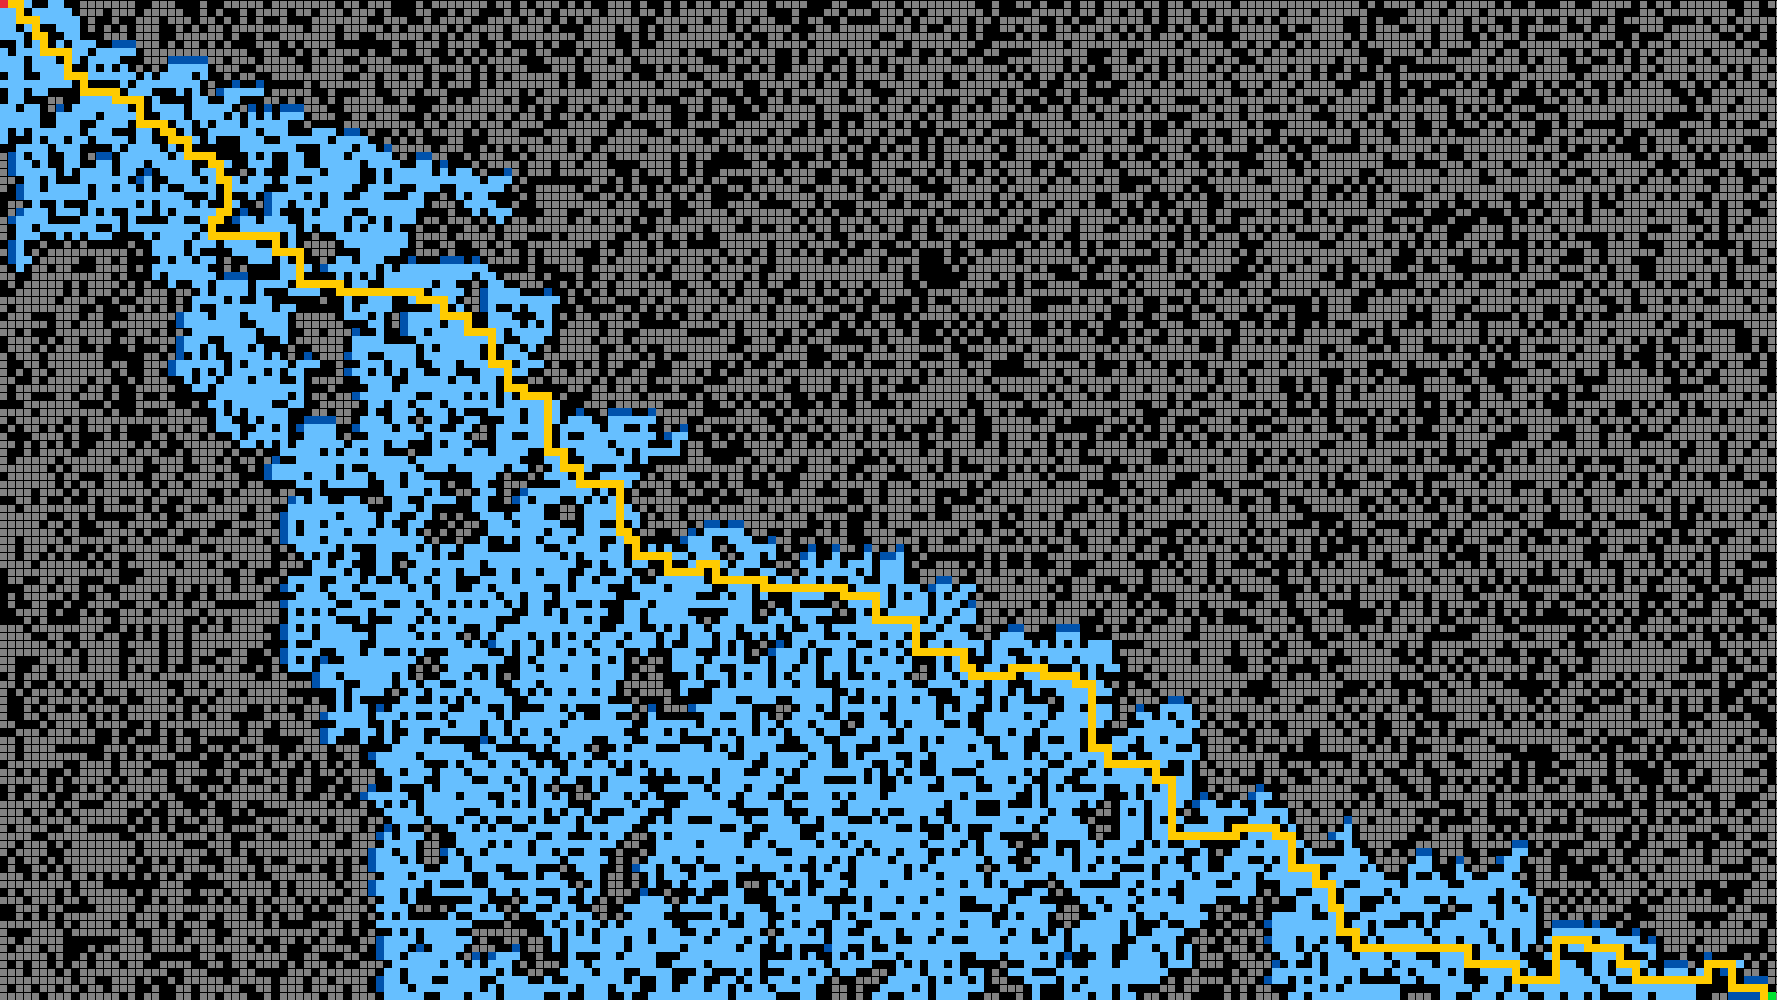
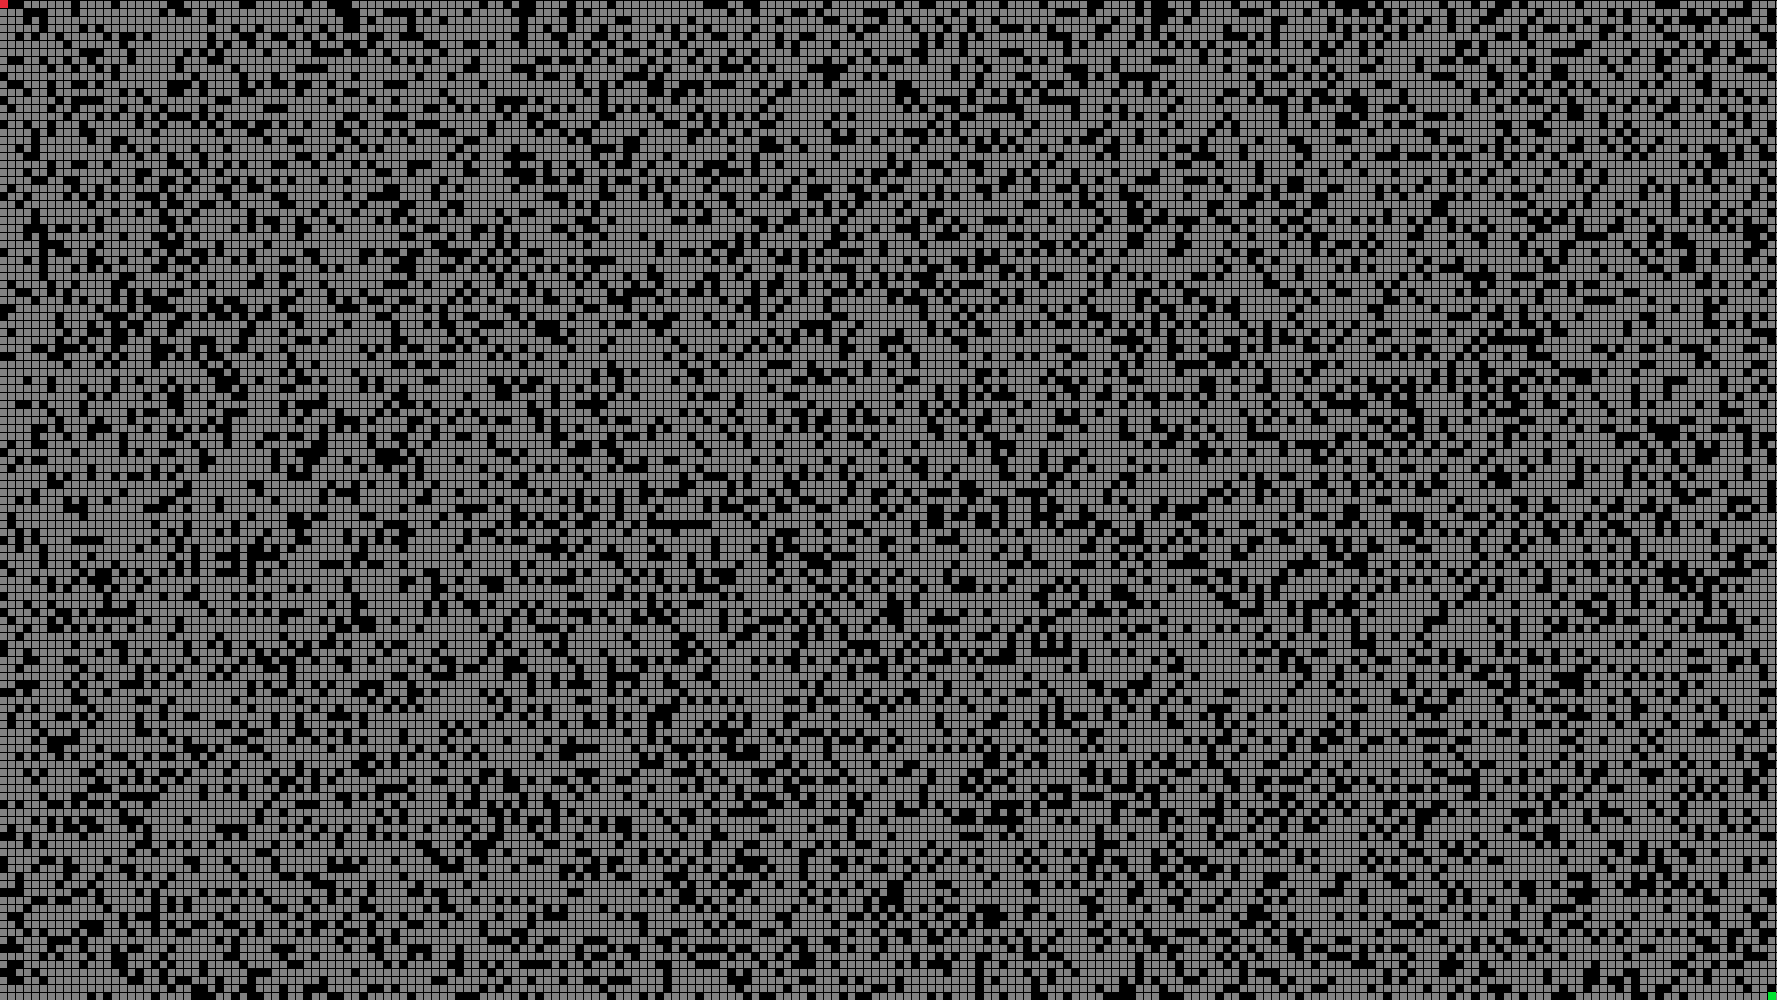
Bug fixing and update README

diff --git a/main.c b/main.c
@@ -12,19 +12,19 @@
 #define S_DIMX (S_DIMY * 16) / 9      // Dimensione schermo (16 : 9)
 
 //CELLS
-#define C_DIM 8                       // Dimensione in pixel casella
+#define C_DIM 16                       // Dimensione in pixel casella
 #define C_NUMX (int) S_DIMX / C_DIM   // Numero caselle asse X
 #define C_NUMY (int) S_DIMY / C_DIM   // Numero caselle asse Y
-#define DST 0.75                      // Peso della distanza tra due celle consecutive. Peso più piccolo calcolo più veloce ma risultato meno preciso
+#define DST 0.95                      // Peso della distanza tra due celle consecutive. Peso più piccolo calcolo più veloce ma risultato meno preciso
                                       // 0.95 sembra essere un ottimo valore
 
 //RANDOMNESS
-#define R_RANDOMNESS 4               // 1/R_RANDOMNESS è la possibilità che una casella sia un blocco 
+#define R_RANDOMNESS 3.5               // 1/R_RANDOMNESS è la possibilità che una casella sia un blocco 
 
 #define REG_POINT                     // Se definito premendo "R" è possibile rigenerare randomicamente la posizione di Start e End 
 //#define PRINT_FINAL_ROUTE           // Se definito stampa a terminale una lista di tutti i nodi attraversati dalla route finale
 //#define PRINT_TRASH                 // Se definito vengono stampati tutti gli indirizzi dei nodi eliminati (debug)
-#define RANDOM_SPAWN false            // Se vero Start e End vengono generati randomicamente
+#define RANDOM_SPAWN true            // Se vero Start e End vengono generati randomicamente
 #define STEP_DST true                 // Se vero la funzione distanza sarà applicata ad una griglia, se falso teorema di pitagora
 
 // La tabella sotto riportata mostra come usare una funzione che calcola la distanza tra due punti su una griglia 
@@ -163,14 +163,14 @@ int main(int argc, char * argv[]){
       Vector2 mouseP = GetMousePosition();
       if(map[(int) mouseP.x / C_DIM][(int) mouseP.y / C_DIM] == C_BLOCK){
         map[(int) mouseP.x / C_DIM][(int) mouseP.y / C_DIM] = C_EMPTY;
-      }
+      };
     }
 
     if(IsMouseButtonDown(MOUSE_BUTTON_LEFT)){
       Vector2 mouseP = GetMousePosition();
-      if(map[(int) mouseP.x / C_DIM][(int) mouseP.y / C_DIM] == C_EMPTY){
+       if(map[(int) mouseP.x / C_DIM][(int) mouseP.y / C_DIM] == C_EMPTY){
         map[(int) mouseP.x / C_DIM][(int) mouseP.y / C_DIM] = C_BLOCK;
-      }
+      };
     }
 
     if(IsKeyPressed(KEY_ENTER)){ 
@@ -289,7 +289,7 @@ int main(int argc, char * argv[]){
 
               if(elem == 5){ //-> elemento già in openSet
                //elimino il vecchio elemento
-                ptr_node openSet = rmNodeByCord(openSet, neighbor_cord);
+                openSet = rmNodeByCord(openSet, neighbor_cord);
               }
 
               ptr_node new_node = generateNode(neighbor_cord,  fscore[(int) neighbor_cord.x][(int) neighbor_cord.y] , NULL);

diff --git a/README.md b/README.md
@@ -2,8 +2,11 @@
 # Visual A* Algorithm
 
 Customizable A* algorithm created in C with real-time graphic display using to Raylib. 
+
 - Press "R" to regenare the Start end End points.
 - Press "Enter" to pause and play the algorithm.
+- You can add new obstacles with the left button of the mouse.
+- You can remove obstacles with the right button of the mouse.
 
 By default the program pause the algorithm at the beginnig. 
 
